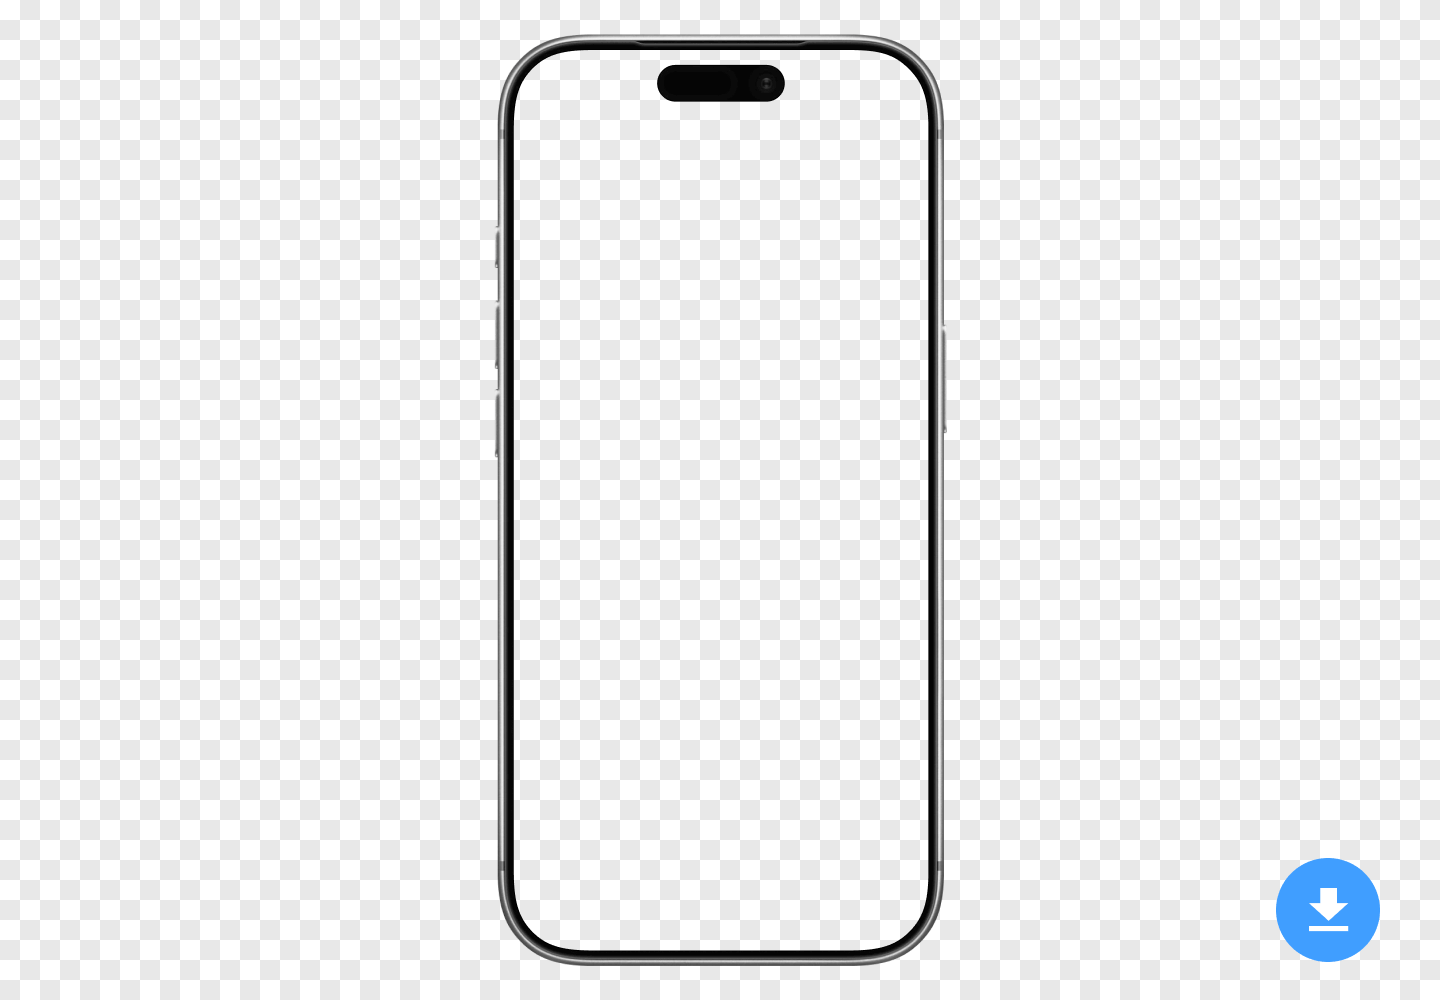
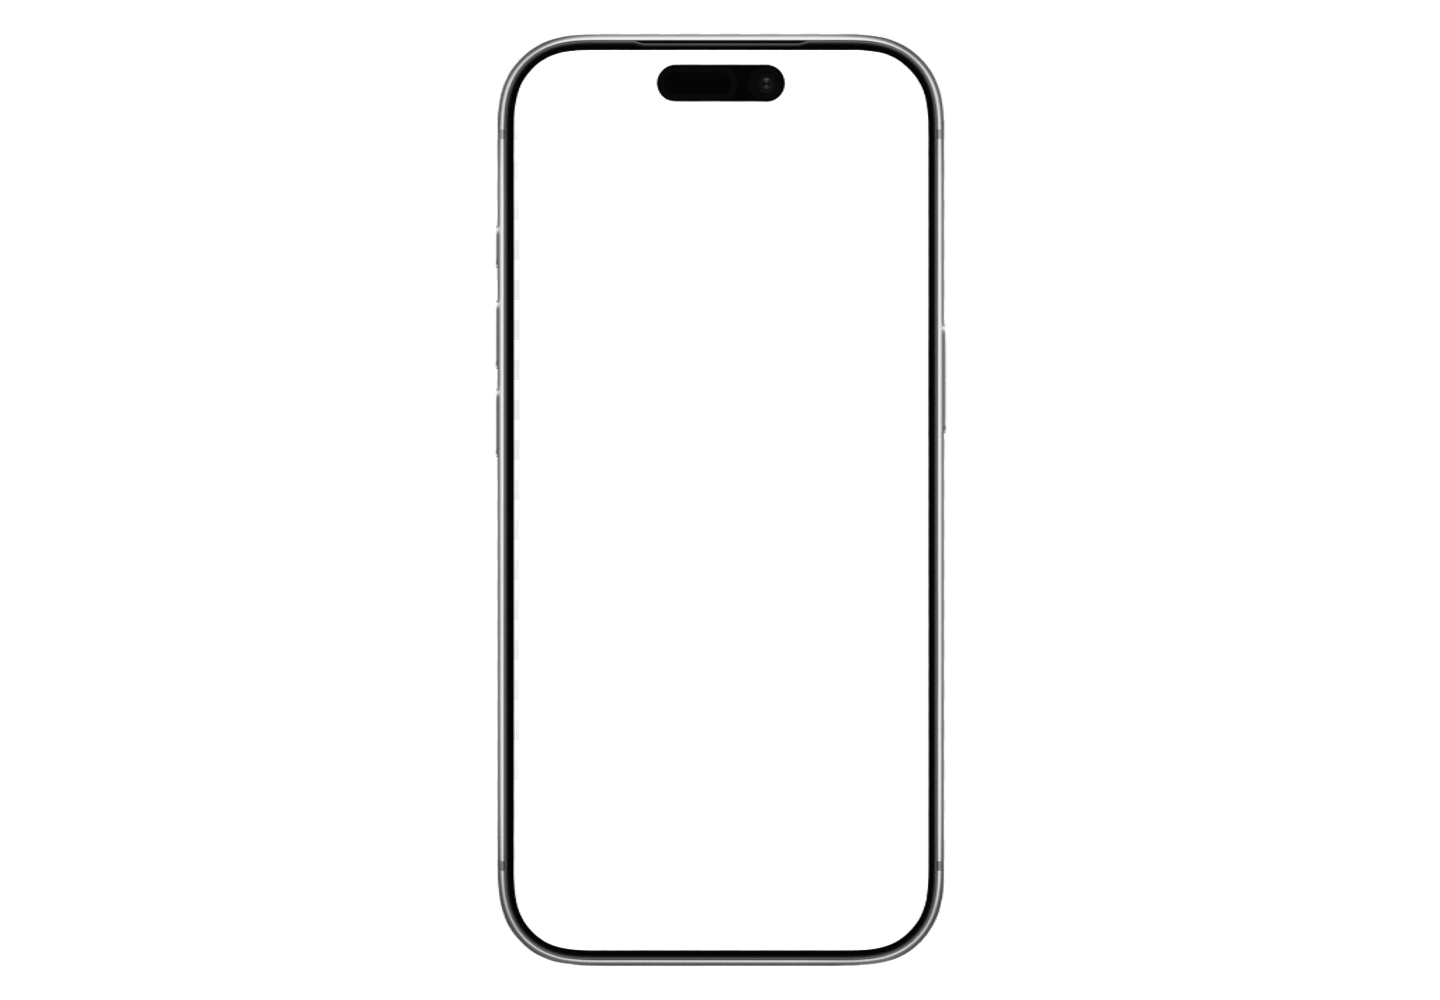
feat: animated chat placeholder + correct screen offsets + new clean mockup
- Replaced watermarked PNG with clean user-provided mockup
- Adjusted .iphone-screen offsets to match new PNG frame (2.8/3.8/3.8/3.2%)
- Removed clip-path (no watermark needed)
- Added WhatsApp-style animated chat placeholder with 6 messages
- Chat shows: user asks price → agent responds → user requests human → agent escalates
- Video hidden until agente-demo.mp4 is added to assets/

Changed region(s): [[0.875, 0.837, 0.9688, 0.961]]

diff --git a/public/index.html b/public/index.html
@@ -142,11 +142,26 @@ h1.hero-h .outline{color:var(--bg);text-shadow:-1px -1px 0 var(--white),1px -1px
 .demo-bullets li strong{color:var(--white);}
 .demo-phone-wrap{display:flex;justify-content:center;position:relative;}
 .iphone-wrap{position:relative;width:280px;flex-shrink:0;}
-.iphone-screen{position:absolute;top:6%;left:4%;right:4%;bottom:4%;border-radius:36px;overflow:hidden;background:#111;z-index:1;}
+.iphone-screen{position:absolute;top:2.8%;left:3.8%;right:3.8%;bottom:3.2%;border-radius:13%;overflow:hidden;background:#0d0d0d;z-index:1;}
 .iphone-screen video{width:100%;height:100%;object-fit:cover;}
-.iphone-screen-placeholder{width:100%;height:100%;display:flex;align-items:center;justify-content:center;}
-.iphone-screen-placeholder::after{content:'';width:10px;height:10px;border-radius:50%;background:var(--accent);animation:pulse 1.8s ease-in-out infinite;}
-.iphone-frame{position:relative;z-index:2;width:100%;pointer-events:none;display:block;clip-path:inset(0 0 4% 0);}
+.iphone-frame{position:relative;z-index:2;width:100%;pointer-events:none;display:block;}
+/* Chat placeholder */
+.chat-placeholder{width:100%;height:100%;display:flex;flex-direction:column;background:#0d0d0d;overflow:hidden;}
+.chat-header{background:#1a1a1a;padding:10px 12px;display:flex;align-items:center;gap:8px;border-bottom:1px solid #222;flex-shrink:0;}
+.chat-avatar{width:28px;height:28px;border-radius:50%;background:var(--accent);display:flex;align-items:center;justify-content:center;font-size:12px;color:#080808;font-weight:900;}
+.chat-name{font-size:11px;font-weight:700;color:#fff;}
+.chat-status{font-size:9px;color:#25D366;}
+.chat-messages{flex:1;padding:10px 8px;display:flex;flex-direction:column;gap:8px;overflow:hidden;}
+.chat-msg{max-width:80%;padding:7px 10px;border-radius:12px;font-size:9.5px;line-height:1.4;opacity:0;animation:msgIn .4s ease forwards;}
+.chat-msg.bot{background:#1e3a2f;color:#e0e0e0;align-self:flex-start;border-bottom-left-radius:3px;}
+.chat-msg.user{background:#2a2a2a;color:#ccc;align-self:flex-end;border-bottom-right-radius:3px;}
+.chat-msg.bot .tick{color:#25D366;font-size:8px;margin-left:4px;}
+.chat-typing{align-self:flex-start;background:#1e3a2f;border-radius:12px;border-bottom-left-radius:3px;padding:8px 12px;display:flex;gap:4px;align-items:center;opacity:0;animation:msgIn .4s ease forwards;}
+.chat-typing span{width:5px;height:5px;border-radius:50%;background:#25D366;animation:typing .9s ease infinite;}
+.chat-typing span:nth-child(2){animation-delay:.2s;}
+.chat-typing span:nth-child(3){animation-delay:.4s;}
+@keyframes msgIn{from{opacity:0;transform:translateY(6px)}to{opacity:1;transform:none}}
+@keyframes typing{0%,60%,100%{transform:translateY(0)}30%{transform:translateY(-4px)}}
 .demo-badge{position:absolute;background:var(--bg);border:1px solid var(--accent);border-radius:999px;padding:9px 18px;display:flex;align-items:center;gap:10px;white-space:nowrap;z-index:3;box-shadow:0 0 20px rgba(212,255,0,.08);}
 .demo-badge-value{font-weight:900;color:var(--accent);font-size:1.05rem;line-height:1;}
 .demo-badge-label{font-size:.7rem;color:var(--dim);text-transform:uppercase;letter-spacing:1px;}
@@ -829,10 +844,27 @@ footer{background:var(--bg);border-top:1px solid var(--border);padding:60px 48px
         <div class="iphone-wrap">
           <!-- Screen behind frame -->
           <div class="iphone-screen">
-            <video autoplay muted loop playsinline>
+            <video autoplay muted loop playsinline style="display:none">
               <source src="assets/agente-demo.mp4" type="video/mp4">
             </video>
-            <div class="iphone-screen-placeholder"></div>
+            <!-- Chat placeholder (remove when video is ready) -->
+            <div class="chat-placeholder">
+              <div class="chat-header">
+                <div class="chat-avatar">H</div>
+                <div>
+                  <div class="chat-name">HELIX Agente IA</div>
+                  <div class="chat-status">● en línea</div>
+                </div>
+              </div>
+              <div class="chat-messages">
+                <div class="chat-msg user" style="animation-delay:.4s">Hola, cuánto cuesta el plan básico?</div>
+                <div class="chat-typing" style="animation-delay:1.2s"><span></span><span></span><span></span></div>
+                <div class="chat-msg bot" style="animation-delay:2s">¡Hola! 👋 Nuestro plan de entrada parte desde <strong>$1.500 USD</strong>. Incluye agente IA en WhatsApp, calificación de leads y agenda automática. <span class="tick">✓✓</span></div>
+                <div class="chat-msg user" style="animation-delay:3.2s">Me interesa. Puedo hablar con alguien?</div>
+                <div class="chat-typing" style="animation-delay:4s"><span></span><span></span><span></span></div>
+                <div class="chat-msg bot" style="animation-delay:4.8s">Claro! Te conecto con José ahora mismo. ¿Querés que agendemos una llamada hoy o mañana? 📅 <span class="tick">✓✓</span></div>
+              </div>
+            </div>
           </div>
           <!-- iPhone 17 Pro Max frame on top -->
           <img class="iphone-frame" src="assets/iphone17promax.png" alt="iPhone 17 Pro Max">